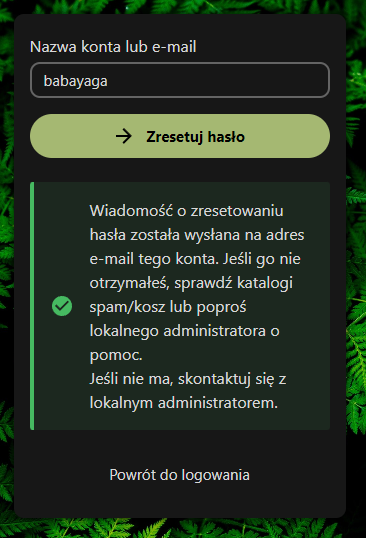
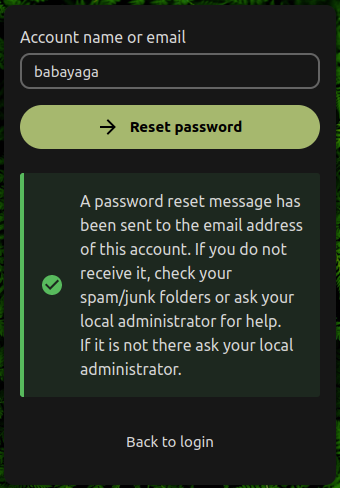
Fixed typos and replaced some images with English version

Changed region(s): [[0.0, 0.0, 1.0, 1.0], [0.2353, 0.3689, 0.8824, 0.7684], [0.2941, 0.8607, 0.6765, 0.9221]]

diff --git a/04_Boruta/README.md b/04_Boruta/README.md
@@ -106,7 +106,7 @@ Content-Length: 16
 
 Hmm, seems we tripped a Cross-Site Request Forgery countermeasure, we will need to find a way around that first.
 
-Using the source code provided we can search for occurances of `CSRF check failed` string to find that it's only used in `CrossSiteRequestForgeryException.php`. Following the "chain" we arrive at this code snippet in the familiar `SecurityMiddleware.php` file:
+Using the source code provided we can search for occurrences of `CSRF check failed` string to find that it's only used in `CrossSiteRequestForgeryException.php`. Following the "chain" we arrive at this code snippet in the familiar `SecurityMiddleware.php` file:
 
 ```PHP
 if (!$this->request->passesCSRFCheck() && !(
@@ -192,7 +192,7 @@ Content-Length: 39
 {"error": "Blocked by web application firewall."}
 ```
 
-Sweet, more errors, at least they are a different flavour.
+Sweet, more errors, at least they are a different flavor.
 
 Looking into the code again, we can trace back this error to a function inside `AuthSettingsController.php`:
 
@@ -274,7 +274,7 @@ When dealing with any kind of user input you always need to sanitize it. "Trusti
 
 When processing object-like user input (like in the example above) always assign only specific properties and not the whole object (in our case, the only copied property from the input object should be `name`).
 
-There are multiple libraries available to make handling user input a breeze, for example, [Zod](https://zod.dev/), my personal go-to library for projects in Javascript.
+There are multiple libraries available to make handling user input a breeze, for example, [Zod](https://zod.dev/), my personal go-to library for projects in JavaScript.
 
 ## Tasks
 

diff --git a/03_Baba Yaga/README.md b/03_Baba Yaga/README.md
@@ -21,7 +21,7 @@
 > - X-Remote-Addr: 127.0.0.1 
 > - X-Client-IP: 127.0.0.1 
 > - X-Host: 127.0.0.1 
-> - X-Forwared-Host: 127.0.0.1 
+> - X-Forwarded-Host: 127.0.0.1 
 >
 > Is Baba Yaga foolish enough to think you will not be able to find a way around her ingenious invention? There's only one way to find out. 
 >
@@ -43,7 +43,7 @@ Moreover, we will have to deal with rate limiting along the way, but we will wor
 
 Let's start by trying to reset the password of `babayaga` account. On the login page, we can try the `Forgot password?` option and enter Baba Yaga's account name (which is simply `babayaga`).
 
-![Reseting Baba Yaga's password, getting rate limited](./media/password_reset_429.png)
+![Resetting Baba Yaga's password, getting rate limited](./media/password_reset_429.png)
 
 However, we get hit by an error, pretty general one in fact. We could suspect it has something to do with aforementioned rate limiting but it's always better to make sure.
 
@@ -103,9 +103,9 @@ To spoof the header we can use a browser extension, such as [ModHeader](https://
 
 Now that rate limiting is (hopefully) dealt with, let's try resetting the password one more time.
 
-![Reseting Baba Yaga's password, success](./media/password_reset.png)
+![Resetting Baba Yaga's password, success](./media/password_reset.png)
 
-Hovewer, as noted before, we won't receive any password reset link, so there must be another way to exploit this system.
+However, as noted before, we won't receive any password reset link, so there must be another way to exploit this system.
 
 Using the Network tab again, we can select the password reset request to see the following:
 

diff --git a/02_Leshy/README.md b/02_Leshy/README.md
@@ -54,7 +54,7 @@ Leshy
 
 That was quite unexpected.
 
-Trying to log in into their account will hovewer prompt us to enter the MFA code, just as expected.
+Trying to log in into their account will however prompt us to enter the MFA code, just as expected.
 
 ![MFA prompt](./media/MFA_prompt.png)
 
@@ -64,11 +64,11 @@ While fiddling around with Puck's account I noticed that I'm able to setup MFA o
 
 ![MFA secret being '234567'](./media/MFA_secret.png)
 
-I restarted the MFA setup process - secret was still the same. It might be the case that the server is still using the previously generated code for this account, which is a red flag already, but just to confirm my suspisions, I decided to terminate the current VM and setup a new one - **the secret was still the same**.
+I restarted the MFA setup process - secret was still the same. It might be the case that the server is still using the previously generated code for this account, which is a red flag already, but just to confirm my suspicions, I decided to terminate the current VM and setup a new one - **the secret was still the same**.
 
 ### Attack Vector
 
-MFA secret not being randomised across user-accounts (not even between MFA setup attempts).
+MFA secret not being randomized across user-accounts (not even between MFA setup attempts).
 
 ### Execution
 

diff --git a/01_Puck/README.md b/01_Puck/README.md
@@ -26,7 +26,7 @@
 ### Reconnaissance
 After navigating to the web app we are presented with the login page allowing us to choose between a traditional login + password method or Single Sign On method.
 
-![Login page](./media/login_page.png)
+![Login page](./media/login_page.jpg)
 
 Keen eye might see some text on the bottom - although it can't be highlighted by selection, we can use browser DevTools to easily see its contents.
 
@@ -53,8 +53,6 @@ Exposed server-side secret on client-side application
 We will use the default user password buried in the client-side web application to access `puck` account.
 
 On the login page we will choose the traditional method, entering `puck` as account name and our newly found default password as password.
-
-![Login attempt](./media/login_attempt.png)
 
 Lo and behold, we successfully gained access to Puck's account. Wasn't so hard after all, eh?
 
